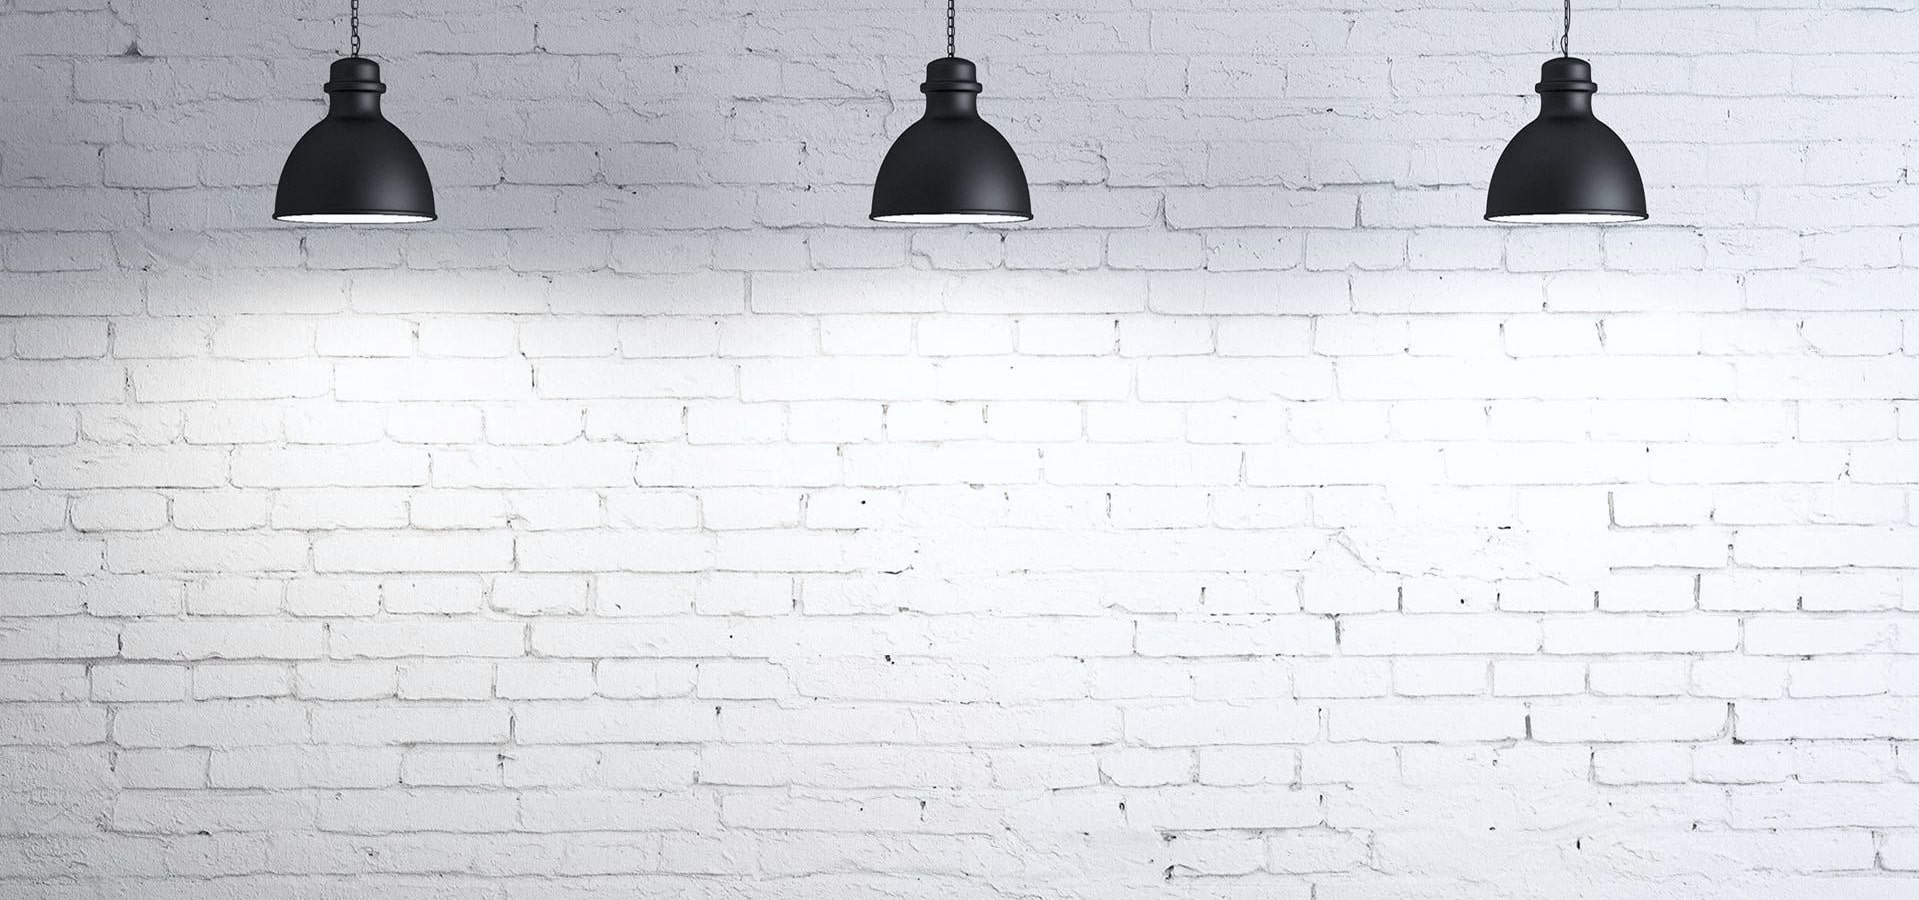
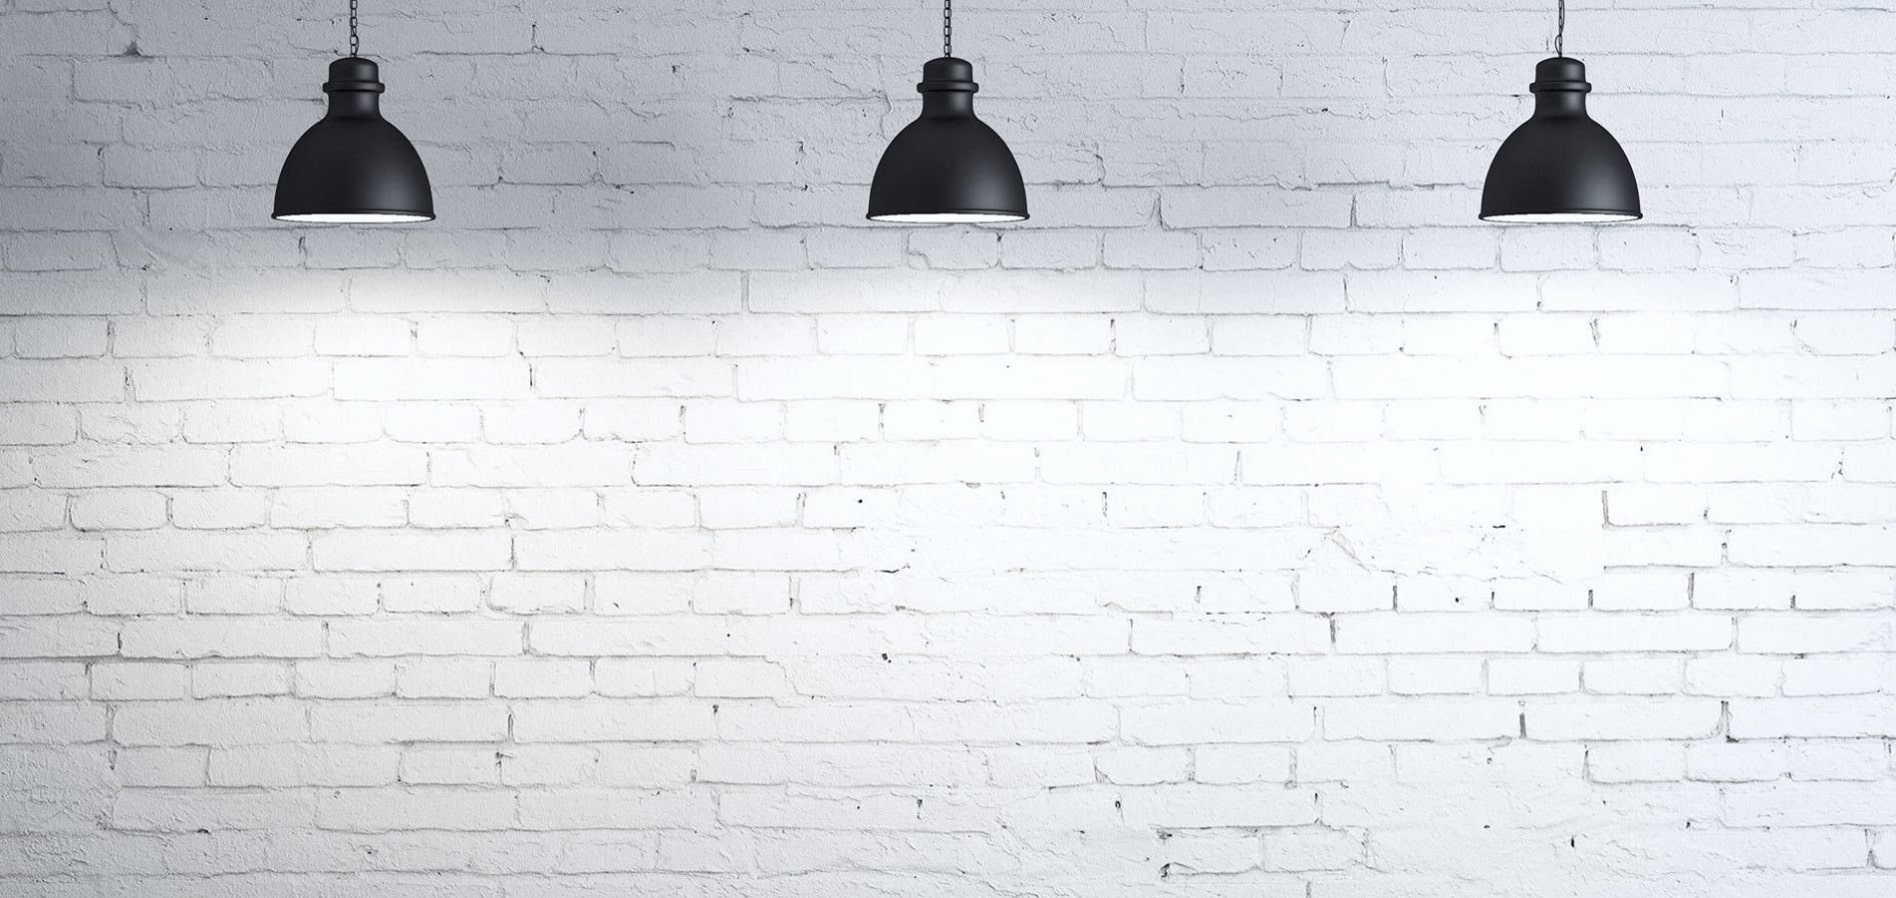
save

diff --git a/src/scss/main.module.scss b/src/scss/main.module.scss
@@ -106,15 +106,16 @@
 }
 
 .container_main_five {
+ 
   .wrap {
     @apply text-gray-800;
     h2 {
       @apply text-center font-serif text-2xl pt-56;
     }
     .wrap_advantages {
-      @apply grid lg:pt-6 md:px-10 lg:px-10 lg:grid-cols-2 lg:gap-10 sm:text-sm;
+      @apply grid lg:pt-6  md:px-10 lg:px-10 lg:grid-cols-2 lg:gap-10 sm:text-sm;
       li {
-        @apply pl-16 my-6 m-1 min-h-full sm:mx-2;
+        @apply pl-16  my-6 min-h-full sm:mx-2;
       }
       .one {
         @apply hover:animate-pulse hover:shadow-sm cursor-pointer;
@@ -135,13 +136,13 @@
     }
   }
   .img {
-    @apply h-screen;
+    @apply h-full pb-20;
     background: url("../assets/yes/lamp.jpg") center center / cover;
   }
 }
 
 .applications {
-  @apply min-h-full  grid grid-cols-2 sm:grid-cols-1;
+  @apply min-h-full grid grid-cols-2 sm:grid-cols-1;
   .text_logo {
     @apply mt-32 text-center mb-10;
     h2 {

diff --git a/src/component/Main.tsx b/src/component/Main.tsx
@@ -10,8 +10,8 @@ const Main = () => {
     <>
       <MainPageOne />
       <MainPageTwo />
-      <Application />
       <MainPageFour />
+      <Application />
       <MainPageFive />
     </>
   );
@@ -183,8 +183,9 @@ const MainPageFive = () => {
             </li>
             <li class={s.three}>
               We will set up all possible feedback methods: mail, online
-              consultant, phone call from the site, Whatsapp connected to the
-              site
+              consultant, phone call from the site,{" "}
+              <span class="text-[#48C857]">WhatsApp</span>,
+              <span class="text-[#29A9EB]">Telegram</span> connected to the site
             </li>
             <li class={s.four}>
               We will analyze your industry and competitors, offer the best
